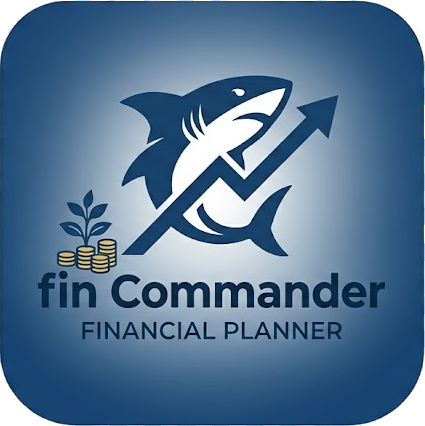
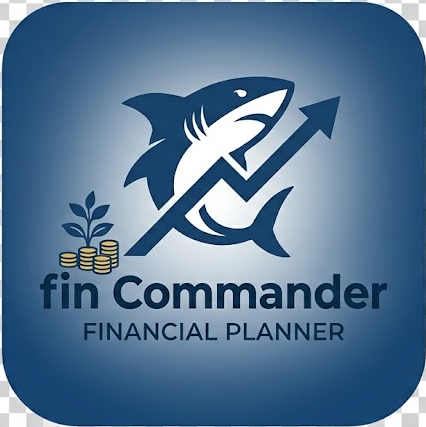
Merge pull request #140 from cjrutherford/iconography
feat: add various icon files and update site manifest for multiple ap…

Pull request: feat: add various icon files and update site manifest for multiple ap…
…plications

diff --git a/AGENTS.md b/AGENTS.md
@@ -6,7 +6,6 @@
 - For navigating/exploring the workspace, invoke the `nx-workspace` skill first - it has patterns for querying projects, targets, and dependencies
 - When running tasks (for example build, lint, test, e2e, etc.), always prefer running the task through `nx` (i.e. `nx run`, `nx run-many`, `nx affected`) instead of using the underlying tooling directly
 - Prefix nx commands with the workspace's package manager (e.g., `pnpm nx build`, `npm exec nx test`) - avoids using globally installed CLI
-- In this workspace, default Nx task execution to `NX_ISOLATE_PLUGINS=false` to avoid local plugin-isolation issues unless a task explicitly requires the default behavior
 - You have access to the Nx MCP server and its tools, use them to help the user
 - For Nx plugin best practices, check `node_modules/@nx/<plugin>/PLUGIN.md`. Not all plugins have this file - proceed without it if unavailable.
 - NEVER guess CLI flags - always check nx_docs or `--help` first when unsure